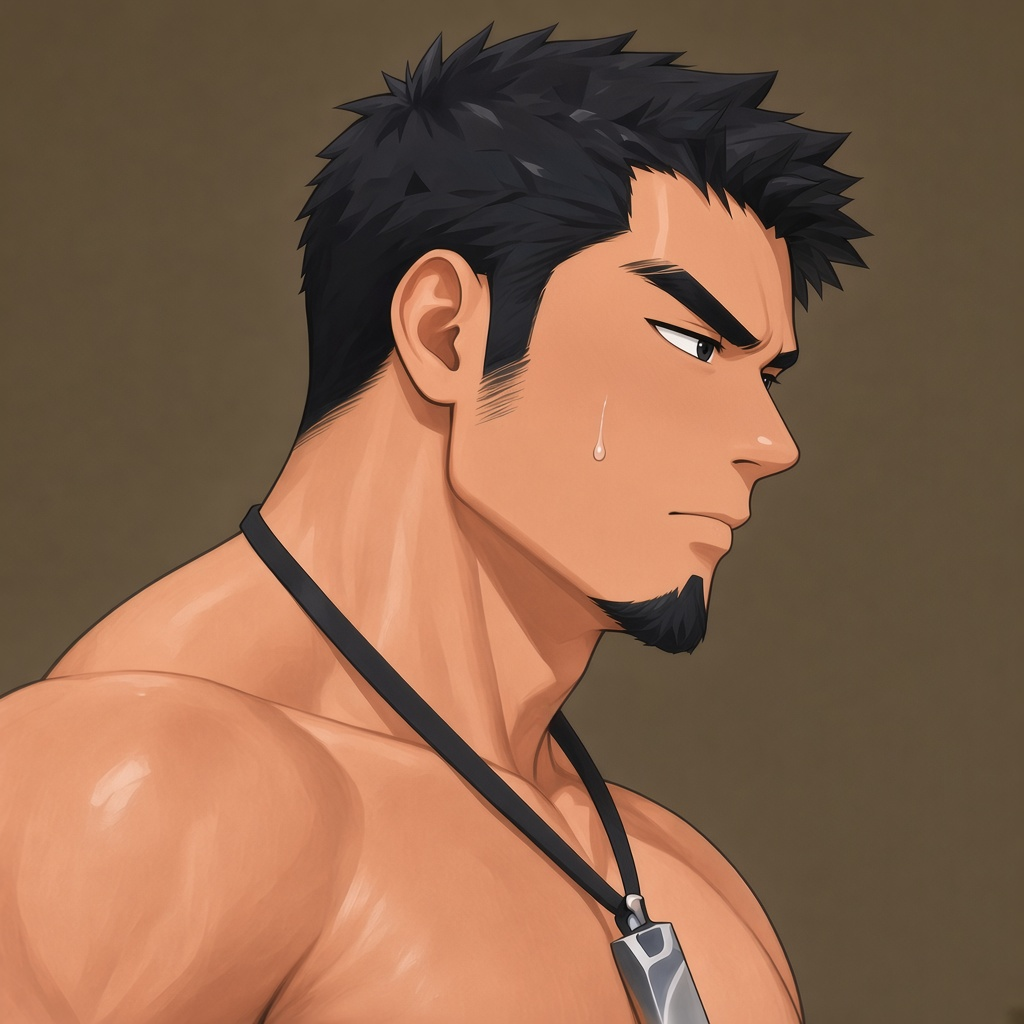
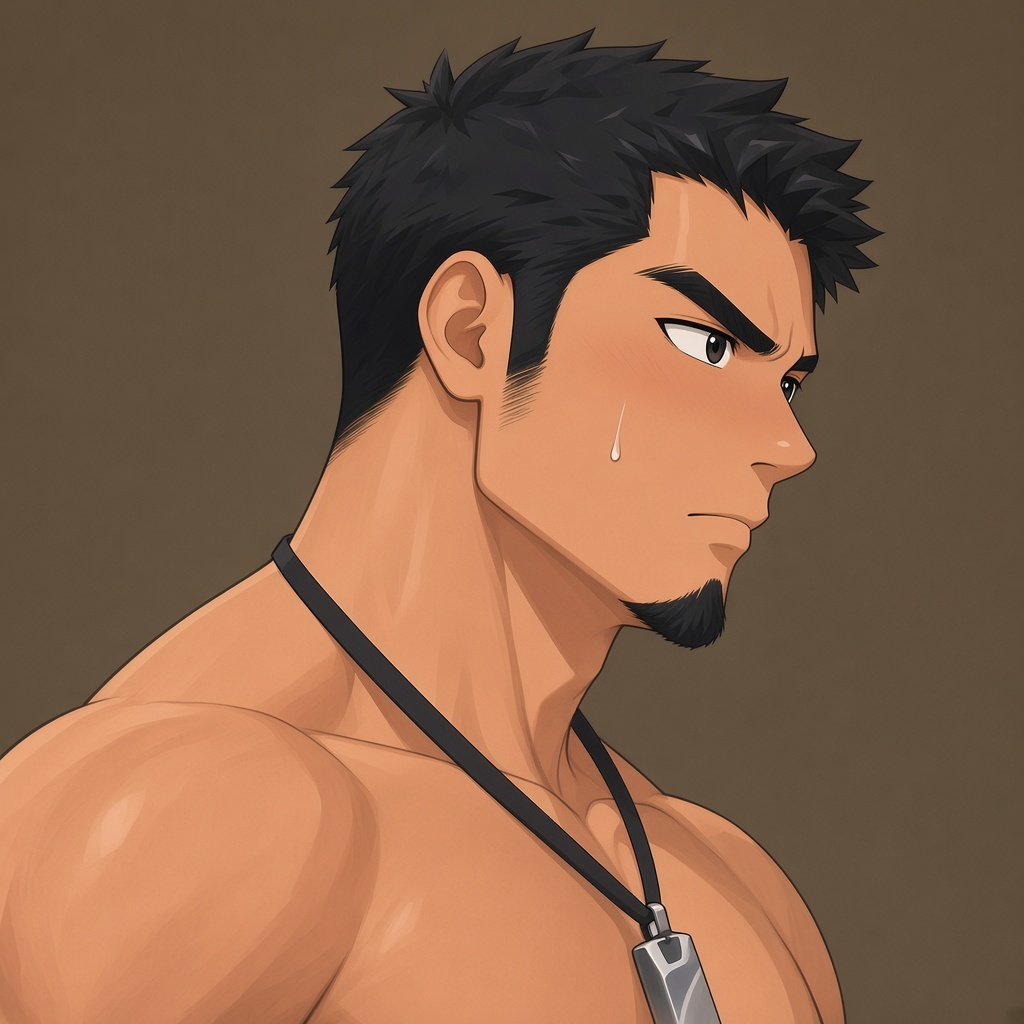
fix: 还原头部的眼睛按原图放大
开口更高，眼白更多。角度和表情合集跟这版对齐。

diff --git a/人物设定图/设定说明.md b/人物设定图/设定说明.md
@@ -15,7 +15,7 @@
 - `正面参考.jpg`：选定的脸
 - `正面全身.jpg`：从转面取出的正面
 - `头部特写.jpg`：头部特写
-- `头部还原.jpg`：按原图头部还原。侧看、轻笑、颊上一滴汗、山羊胡。旁边的人和手不在这张里
+- `头部还原.jpg`：按原图头部还原。侧看、轻笑、颊上一滴汗、山羊胡。眼睛按原图放大，开口更高，眼白更多。旁边的人和手不在这张里
 - `脸部还原视角.jpg`：同一张还原头。正面、左45°、右45°、侧面、背面，各有仰视、平视、俯视
 - `脸部还原表情.jpg`：平视、侧目、轻笑、沉脸、怒、惊讶。每种有正面、左45°、侧面
 - `脸部还原/`：上面两张拼图用的单帧。轻笑复用平视角度里的正面、左45°、侧面
